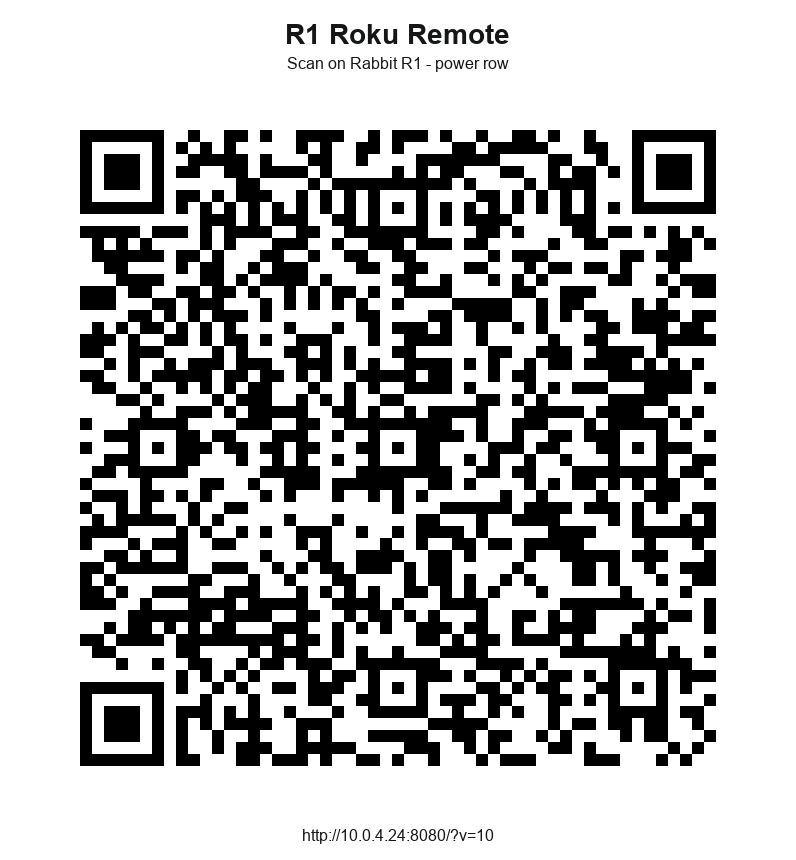
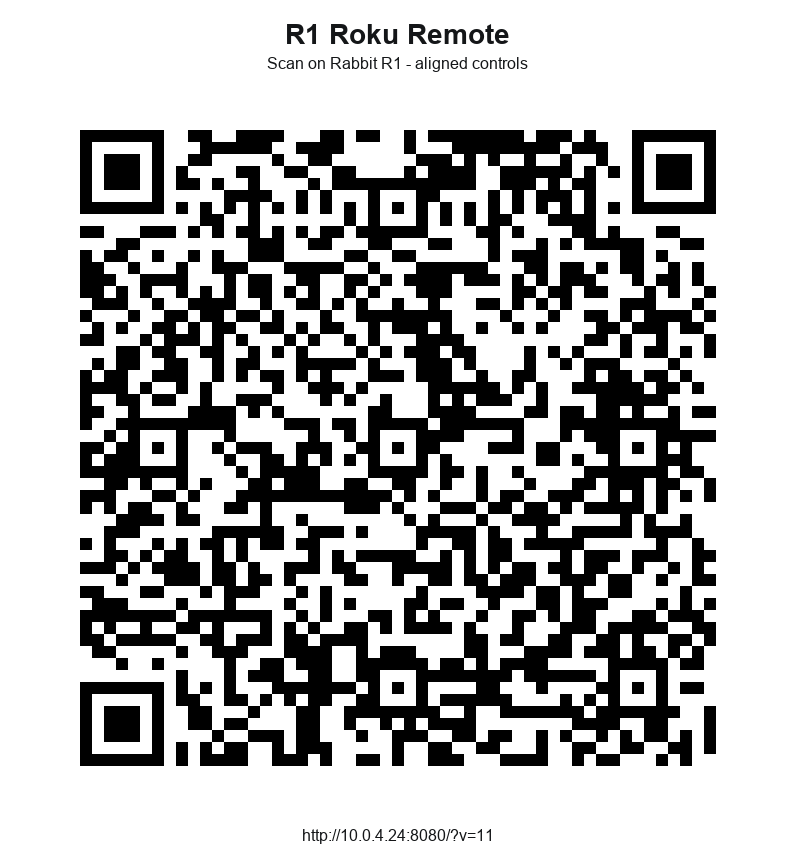
Align mute and more controls

Changed region(s): [[0.0905, 0.1512, 0.9045, 0.907], [0.3317, 0.0605, 0.6633, 0.0907]]

diff --git a/web-creation/index.html b/web-creation/index.html
@@ -41,12 +41,12 @@
                         <div></div>
                         <span>-</span>
                     </div>
-                    <button data-key="VolumeMute">Mute</button>
                 </div>
             </div>
 
             <div class="primary-row">
                 <button class="play-pause" data-key="Play" aria-label="Play/Pause">&#9654;&#10074;&#10074;</button>
+                <button data-key="VolumeMute">Mute</button>
                 <button id="moreBtn">More</button>
             </div>
         </section>
@@ -72,7 +72,7 @@
             <h2>Roku Setup</h2>
             <p>On the TV, open Settings &gt; System &gt; Advanced system settings &gt; Control by mobile apps.</p>
             <p>Set Network access to Enabled. If buttons still fail, use Permissive.</p>
-            <button id="closeHelpBtn">Got it</button>
+            <button id="closeHelpBtn">Hide</button>
         </section>
 
         <section id="settings" class="panel settings hidden">
@@ -112,6 +112,6 @@
             <p id="voiceStatus">Voice uses browser speech when available.</p>
         </section>
     </main>
-    <script src="./js/app.js?v=9"></script>
+    <script src="./js/app.js?v=11"></script>
 </body>
 </html>

diff --git a/web-creation/css/styles.css b/web-creation/css/styles.css
@@ -140,7 +140,7 @@ p {
 
 .volume-panel {
     display: grid;
-    grid-template-rows: 18px 1fr 38px;
+    grid-template-rows: 18px 1fr;
     gap: 5px;
 }
 
@@ -153,7 +153,7 @@ p {
 
 .volume-track {
     display: grid;
-    grid-template-rows: 24px 1fr 24px;
+    grid-template-rows: 30px 1fr 30px;
     border: 1px solid #30353a;
     border-radius: 10px;
     background: #14171a;
@@ -183,11 +183,6 @@ p {
     border-radius: 4px;
     background: #7b2bd1;
     transform: translateX(-50%);
-}
-
-.volume-panel button {
-    height: 38px;
-    font-size: 11px;
 }
 
 .volume-panel.volume-up .volume-track,
